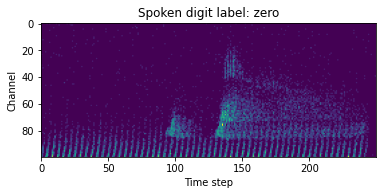
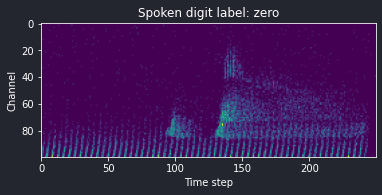
update blog post to improve plots

diff --git a/content/post/train snns fast/index.md b/content/post/train snns fast/index.md
@@ -23,7 +23,7 @@ For this post we train an SNN using [Sinabs](https://github.com/synsense/sinabs)
 For all our benchmarks, we already assume multiple worker loading threads and pinning the GPU memory. We'll increase throughput by using different forms of caching to disk or GPU. By applying deterministic transformations upfront and saving the new tensor, we can save a lot of time during training. 
 This tutorial is run on a machine with Ubuntu 20.04, an Intel Core i7-8700K CPU @ 3.70GHz, a Samsung SSD 850 and an NVIDIA GeForce RTX 2070 GPU.
 
-All data from neuromorphic datasets in Tonic is provided as NxD numpy arrays. We'll need to transform this into a dense tensor to serve it to the GPU, and we'll also do some downsampling of time steps. Let's first define the transform. We know that samples of audio input data are 0.8-1.2s long across 700 frequency channels at microsecond resolution. We'll downsample each sample to 100 channels, bin events every 4 ms to one frame and cut samples that are longer than 1s. That leaves us with a maximum of 250 time steps per sample.
+All data from neuromorphic datasets in Tonic is provided as NxD numpy arrays. We'll need to transform this into a dense tensor to serve it to the GPU, and we'll also do some downsampling of time steps. Let's first define the transform. We know that samples of audio input data are 0.8-1.2s long across 700 frequency channels at microsecond resolution. We'll [downsample](https://tonic.readthedocs.io/en/latest/reference/generated/tonic.transforms.Downsample.html#tonic.transforms.Downsample) each sample to 100 channels, [bin](https://tonic.readthedocs.io/en/latest/reference/generated/tonic.transforms.ToFrame.html#tonic.transforms.ToFrame) events every 4 ms to one frame and [cut](https://tonic.readthedocs.io/en/latest/reference/generated/tonic.transforms.CropTime.html#tonic.transforms.CropTime) samples that are longer than 1s. That leaves us with a maximum of 250 time steps per sample.
 
 
 ```python
@@ -47,10 +47,9 @@ Next we'll import the training dataset and assign the transform.
 
 
 ```python
-import torch
-import tonic
+from tonic import datasets
 
-dense_dataset = tonic.datasets.SSC("./data", split="train", transform=dense_transform)
+dense_dataset = datasets.SSC("./data", split="train", transform=dense_transform)
 print(f"This dataset has {len(dense_dataset)} samples.")
 ```
 
@@ -65,6 +64,8 @@ dense_sample, dense_target = dense_dataset[0]
 
 import matplotlib.pyplot as plt
 
+plt.style.use("dark_background")
+plt.figure(facecolor='#23252f')
 plt.imshow(dense_sample.squeeze().T)
 plt.xlabel("Time step")
 plt.ylabel("Channel")
@@ -77,7 +78,7 @@ plt.title("Spoken digit label: " + dense_dataset.classes[dense_target].decode("a
     
 
 
-Let's also define a spiking model. We use a simple integrate-and-fire (IAF) feed-forward (Sequential) architecture. For each dataloading method, we're going to test two different models. One is a [Sinabs](https://sinabs.readthedocs.io) model which is pretty much pure PyTorch plus for loops and the second one is an [EXODUS](https://arxiv.org/abs/2205.10242) model, which is also based on PyTorch but vectorizes gradient computation across the time dimension using custom CUDA code. Both models compute the same activations and gradients, but the latter provides a significant speedup.
+Let's also define a spiking model. We use a simple integrate-and-fire (IAF) feed-forward architecture. For each dataloading method, we're going to test two different models. One is a [Sinabs](https://sinabs.readthedocs.io) model which is pretty much pure PyTorch plus for loops and the second one is an [EXODUS](https://arxiv.org/abs/2205.10242) model, which is also based on PyTorch but vectorizes gradient computation for the time dimension using custom CUDA code. Both models compute the same activations and gradients, but the latter provides a significant speedup.
 
 
 ```python
@@ -145,7 +146,7 @@ def training_loop(dataloader, model):
         data, targets = data.squeeze().cuda(), targets.cuda()
         sinabs.reset_states(model)
         output = model(data)
-        loss = torch.nn.functional.cross_entropy(output.sum(1), targets)
+        loss = nn.functional.cross_entropy(output.sum(1), targets)
         loss.backward()
 ```
 
@@ -163,8 +164,8 @@ exodus_results.append(
 )
 ```
 
-    100%|██████████| 589/589 [03:14<00:00,  3.04it/s]
-    100%|██████████| 589/589 [01:47<00:00,  5.49it/s]
+    100%|██████████| 589/589 [03:33<00:00,  2.76it/s]
+    100%|██████████| 589/589 [01:47<00:00,  5.46it/s]
 
 
 For the Sinabs model that's about 3 iterations/s, which is not very exciting. We can already see the huge speedup that EXODUS provides, essentially halving the computation time! Overall GPU utilisation rate is at ~70%, which means that a lot of the time the GPU just sits there idling, waiting for new data to arrive.
@@ -194,7 +195,7 @@ disk_cached_dataloader = DataLoader(disk_cached_dataset, **dataloader_kwargs)
 training_loop(disk_cached_dataloader, exodus_model)
 ```
 
-    100%|██████████| 589/589 [00:19<00:00, 30.37it/s]
+    100%|██████████| 589/589 [02:21<00:00,  4.17it/s]
 
 
 As anticipated this run is slower than the EXODUS run before, because the cache was written to disk under the hood, which takes time. Let's see training speeds after this is done.
@@ -215,8 +216,8 @@ exodus_results.append(
 )
 ```
 
-    100%|██████████| 589/589 [03:10<00:00,  3.09it/s]
-    100%|██████████| 589/589 [00:19<00:00, 30.70it/s]
+    100%|██████████| 589/589 [03:11<00:00,  3.08it/s]
+    100%|██████████| 589/589 [00:18<00:00, 31.30it/s]
 
 
 32 iterations/s? Now this is faster! Every epoch from now on will load data at this speed, at the expense of disk space. How much disk space does it cost you may ask? Let's compare the size of the original dataset and the cache folder...
@@ -278,7 +279,7 @@ sparse_tensor_dataloader = DataLoader(
 )
 ```
 
-    100%|██████████| 589/589 [00:23<00:00, 25.05it/s]
+    100%|██████████| 589/589 [00:23<00:00, 25.33it/s]
 
 
 The sparse tensor dataset takes about 5.7 GB of GPU memory. Not exactly efficient, but also not terrible. What about training speeds?
@@ -290,7 +291,7 @@ def gpu_training_loop(model):
         data = data.to_dense()
         sinabs.reset_states(model)
         output = model(data)
-        loss = torch.nn.functional.cross_entropy(output.sum(1), targets)
+        loss = nn.functional.cross_entropy(output.sum(1), targets)
         loss.backward()
 ```
 
@@ -305,7 +306,7 @@ exodus_results.append(
 ```
 
     100%|██████████| 589/589 [03:12<00:00,  3.06it/s]
-    100%|██████████| 589/589 [00:16<00:00, 35.63it/s]
+    100%|██████████| 589/589 [00:16<00:00, 35.62it/s]
 
 
 We're down to 16s per iteration for the EXODUS model, which is a ten-fold improvement over the original Sinabs model using the naïve dataloading approach! All this without any impact whatsoever on training performance. 
@@ -335,6 +336,8 @@ df = pd.DataFrame(
 ```python
 import seaborn as sns
 
+plt.style.use("dark_background")
+plt.figure(facecolor='#23252f')
 sns.barplot(data=df, x="Dataloading", y="Training loop time (s)", hue="Backend").set(
     title="Training SNNs faster"
 );
